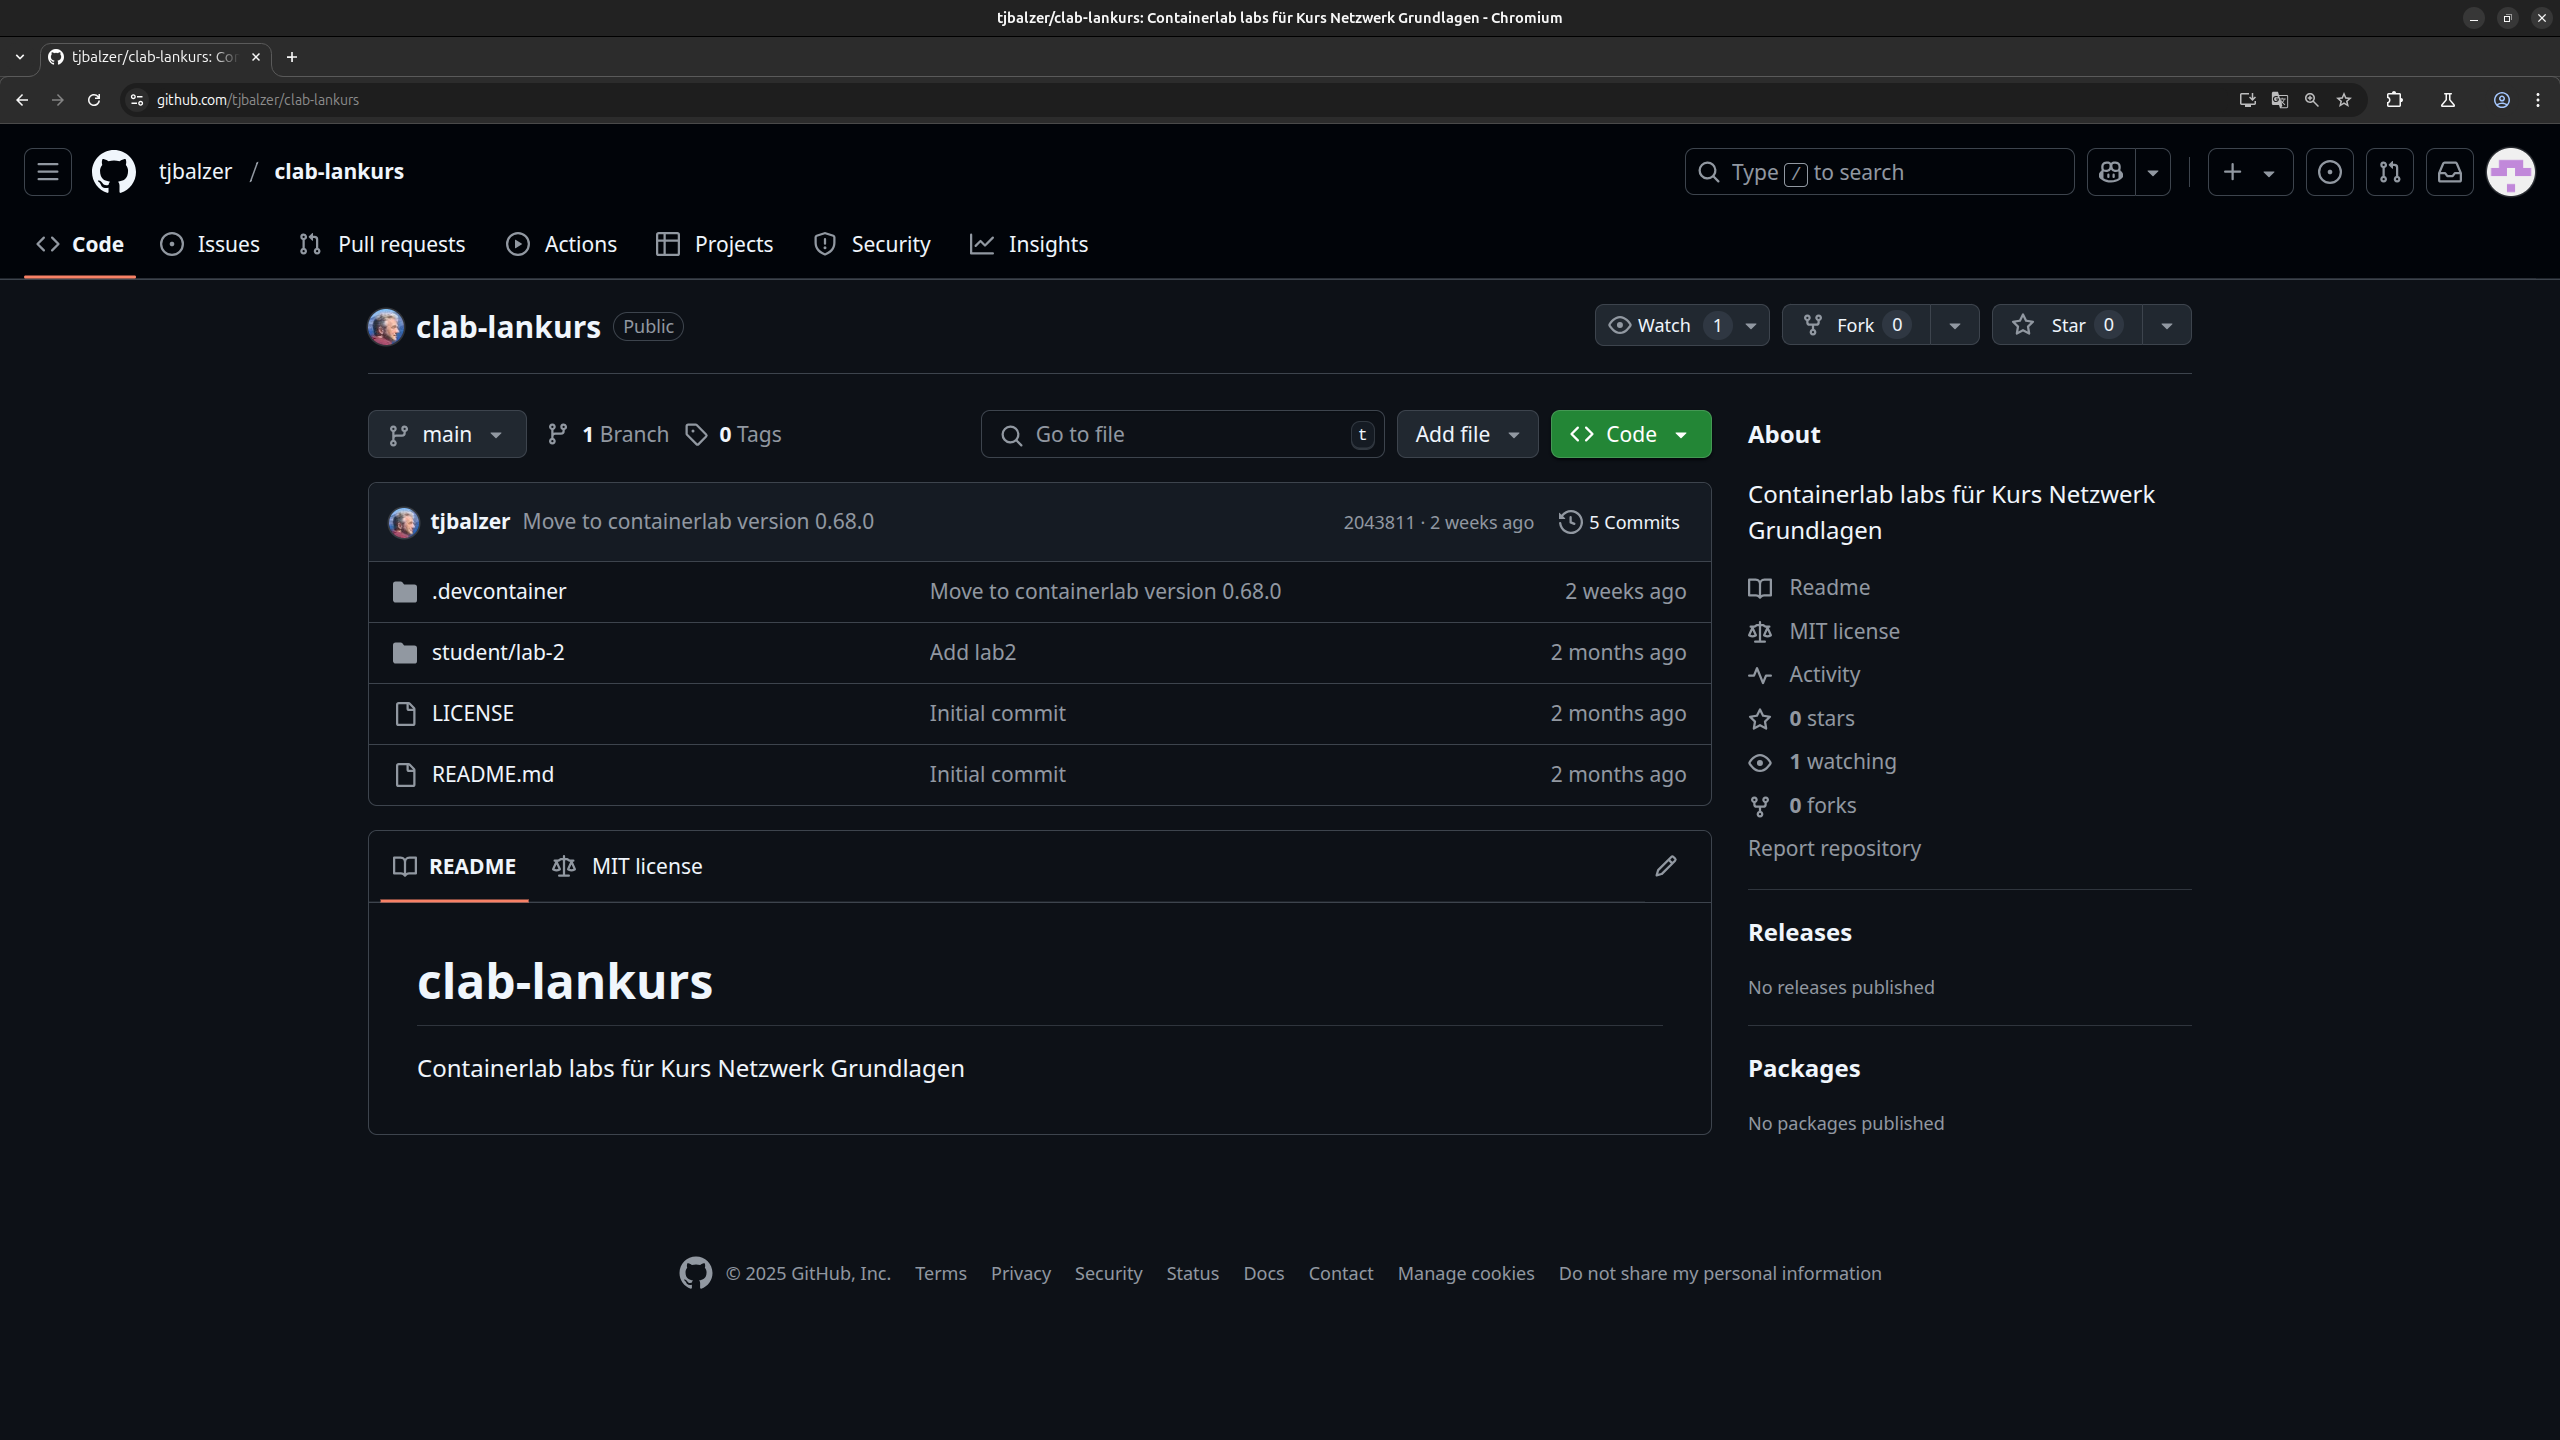
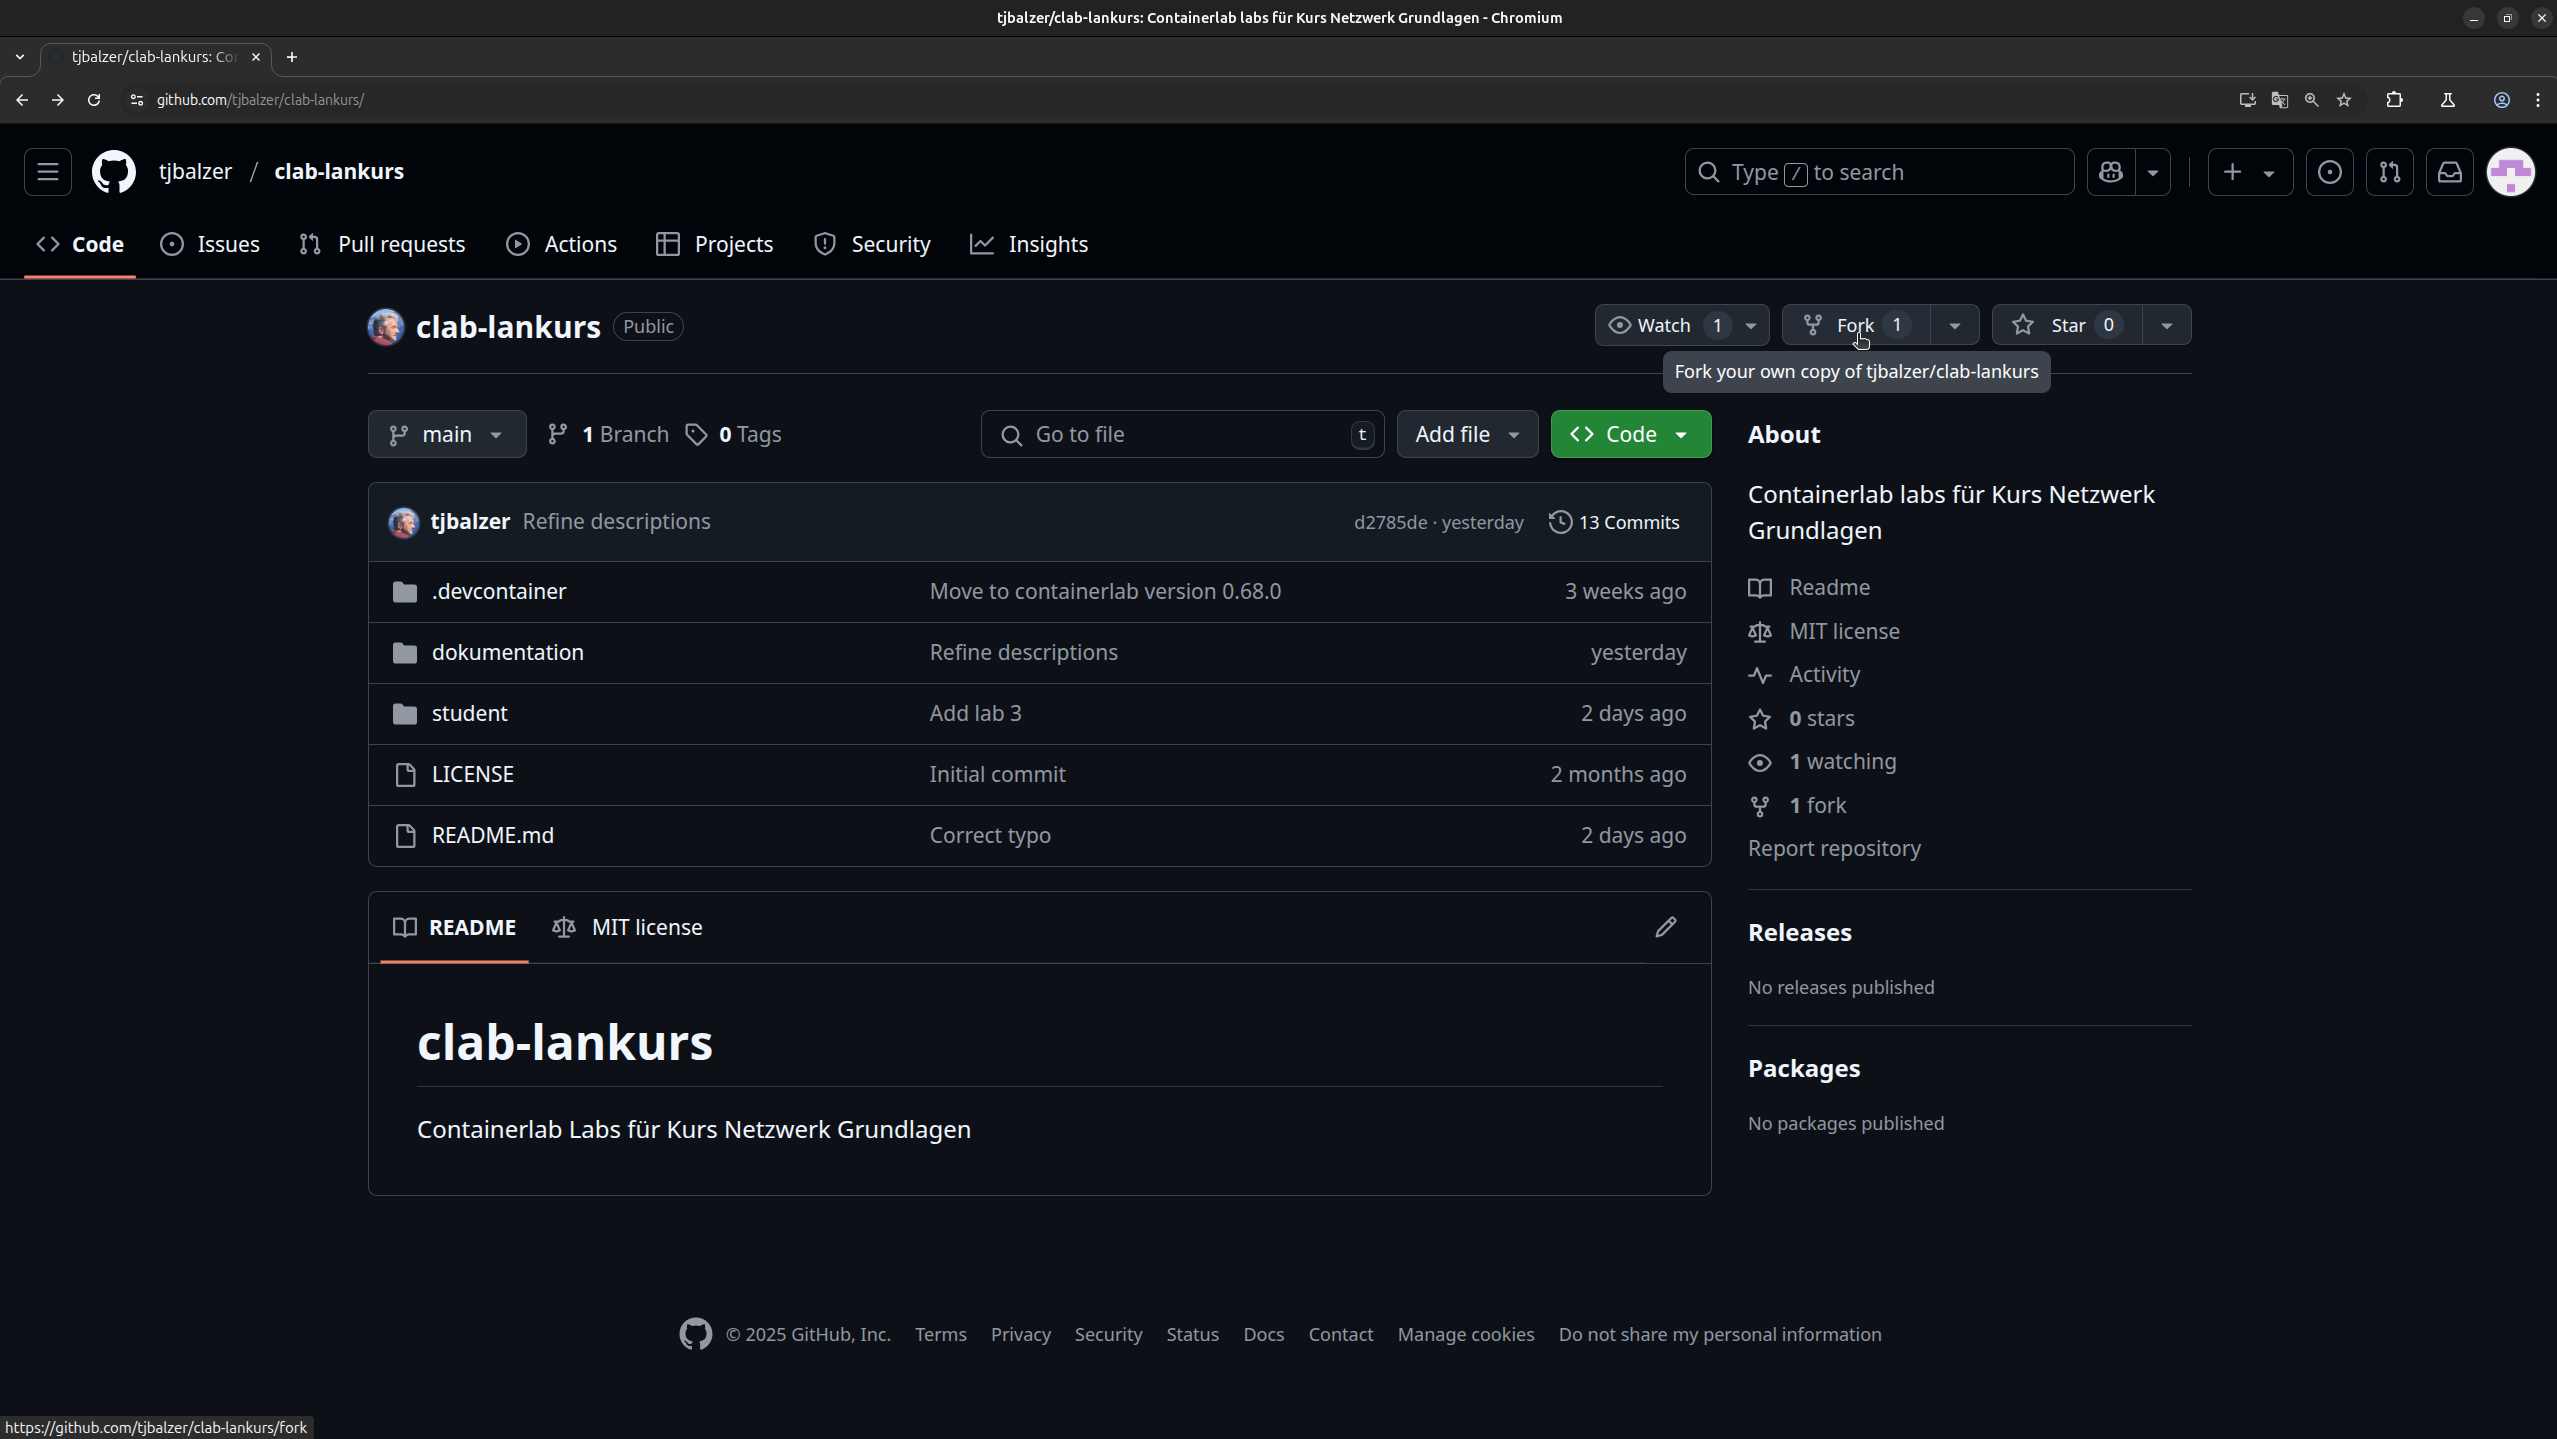
Add infos about forking repos and creating codespaces

diff --git a/dokumentation/docs/vorbereitungen.md b/dokumentation/docs/vorbereitungen.md
@@ -74,6 +74,53 @@ Die Übungen werden über das GitHub Repository [clab-lankurs](https://github.co
 Dieser _Fork_ des Original GitHub-Repositories wird wie folgt erstellt:
 
 - Öffnen der GitHub-Webseite des _clab-lankurs_ Repositories: [https://github.com/tjbalzer/clab-lankurs](https://github.com/tjbalzer/clab-lankurs)
+- Button _Fork_ auswählen, um das _clab-lankurs_ Repository als eigenes Repository in die GitHub-Umgebung des Nutzers zu kopieren
+- Fork durch Bestätigung der Eingabemaske _Create a new fork_ über den Button _Create fork_ erstellen
+
+![Fork erstellen #1](img/create-lankurs-fork-1.png)
+![Fork erstellen #2](img/create-lankurs-fork-2.png)
+![Fork erstellen #3](img/create-lankurs-fork-3.png)
+![Fork erstellen #4](img/create-lankurs-fork-4.png)
+
+## Dev Container in GitHub Codespaces erstellen und starten
+
+Die Netzwerk Labs sollen in einer virtuellen Maschine (VM) auf GitHub bereitgestellt werden. Die VM wird als _Dev Container_ (auf GitHub auch _Codespace_ genannt) definiert und erstellt. Der Dev Container ist im geforkten Repository in der Datei `.devcontainer/devocontainer.json` definiert und basiert auf einem Containerlab Dev Container der SRL Labs:
+
+``` JSON
+{
+    "image": "ghcr.io/srl-labs/containerlab/devcontainer-dind-slim:0.68.0",
+    "hostRequirements": {
+        "cpus": 2, 
+        "memory": "8gb",
+        "storage": "32gb"
+    }
+}
+```
+
+Die Existenz der Datei `.devcontainer/devcontainer.json` im _clab-lankurs_ Repository wird von GitHub automatisch erkannt und wir können den Dev Container (Codespace) wie folgt erstellen:
+
+- Auf der Hauptseite des geklonten Repositories _clab-lankurs_ den Button _<> Code_ auswählen
+- Daraufin wird ein Dialog mit den Reitern _Local_ und _Codespaces_ angezeigt
+- Auswahl des Reiters _Codespaces_ und Erstellung des Dev Containers über den Button _Create codespace on main_
+- Die Erstellung des Codespaces dauert in der Regel 5-10 Minuten
+- Über den Informationsdialog `Setting up remote connection` unten rechts kann durch klicken auf `Building codespace...` bei Bedarf das Log für den Aufbau im Bereich `TERMINAL` angezeigt und verfolgt werden
+- Die Erstellung und der Start des Codepaces ist abgeschlossen, wenn unten links der Verbindungsstatus `>< Codespaces: <zufälliger Name des Codespaces>` angezeigt, im Hauptfenster die _Containerlab Willkommensnachricht_ erscheint und das Containerlab Symbol am linken Rand in der vertikalen Bedienleiste eingeblendet wird 
+
+!!! warning
+    Als _Default Idle Timeout_ für GitHub Codespaces sind 30 Minuten vorkonfiguriert. Nutzt man einen gestarteten Codespace für 30 Minuten nicht, wie der Codespace automatisch gestoppt.
+
+!!! warning
+    Als _Default Retention Time_ für GitHub Codespaces sind 30 Tage vorkonfiguriert. Codespaces werden maximal 30 Tage nach der letzten Nutzung gelöscht.
+
+!!! info
+    Die Codepace-Einstellungen für seinen GitHub-Account erreicht man unter dem folgenden Link, wenn man bereits mit seinem Nutzernamen auf GitHub angemeldet ist: [https://github.com/settings/codespaces](https://github.com/settings/codespaces)
+
+![Codespace erstellen #1](img/create-codespace-1.png)
+![Codespace erstellen #2](img/create-codespace-2.png)
+![Codespace erstellen #3](img/create-codespace-3.png)
+![Codespace erstellen #4](img/create-codespace-4.png)
+![Codespace erstellen #5](img/create-codespace-5.png)
+![Codespace erstellen #6](img/create-codespace-6.png)
 
 ## Installation von Wireshark auf dem SmartClient
 
